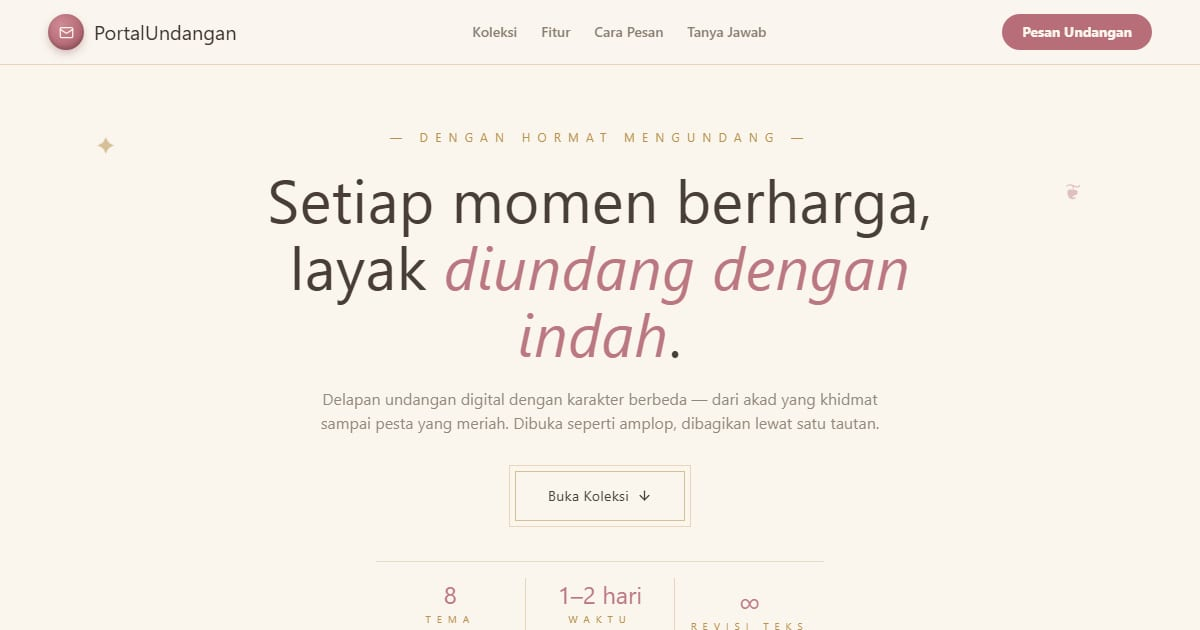
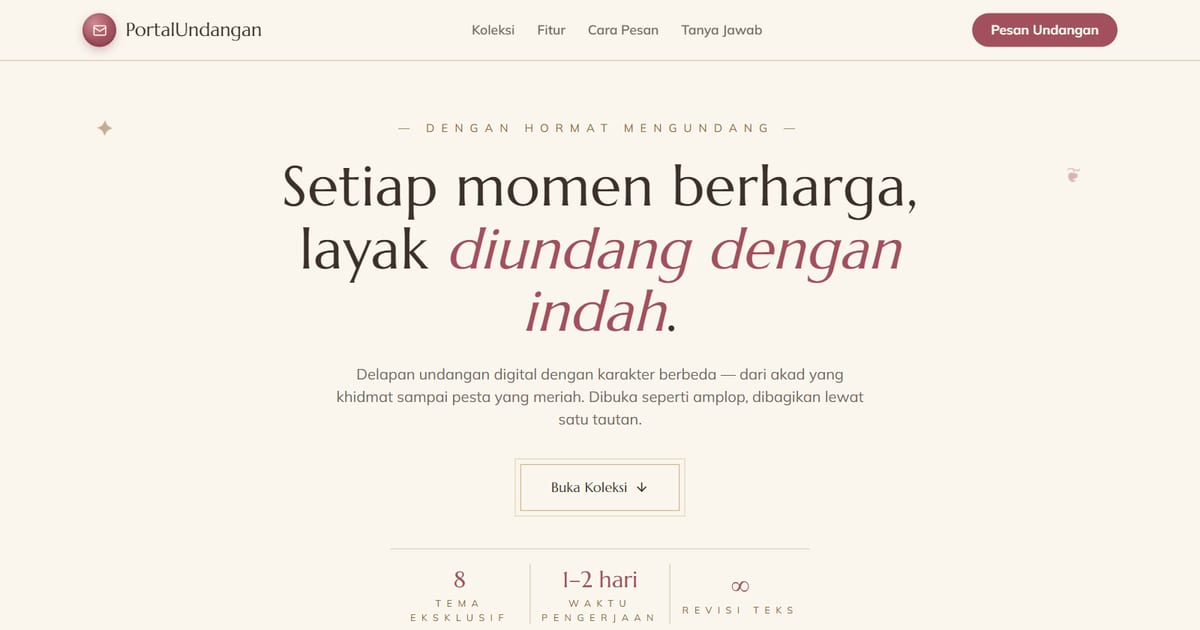
Portal undangan: font judul benar, kontras, dan fitur /kirim
- Variabel font di <body> membuat @theme --font-display kosong sehingga
  judul jatuh ke Georgia -> variabel dipindah ke <html> (kini Marcellus)
- Kontras: rose/gold/muted digelapkan (>= 4.5:1); kelas .ornamen yang
  unlayered mengalahkan warna utilitas -> masuk @layer components; label
  footer & hak cipta di latar gelap dibuat terbaca
- Baris statistik meluap 6 px di layar 360 px -> min-w-0 & tracking lebih
  rapat di mobile
- Fitur & langkah "Sebarkan" menyebut halaman /kirim (tautan bernama per
  tamu + pesan WhatsApp) yang kini ada di tiap tema; FAQ RSVP diluruskan
  (wisuda tidak punya RSVP; contoh berjalan dalam mode demo)
- Deskripsi Acara Kantor mengikuti situs konferensi barunya
- Pratinjau u1-u8 PNG -> WebP dari sampul terbaru (20-100 KB); og.jpg baru

diff --git a/app/page.js b/app/page.js
@@ -8,11 +8,11 @@ import { templates } from './components/templates-data';
 const WA = 'https://wa.me/6281339908765?text=Halo%2C%20saya%20ingin%20memesan%20undangan%20digital%20di%20PortalUndangan';
 
 const FITUR = [
-  { icon: MailOpen, title: 'Amplop Pembuka', desc: 'Nama tamu tersapa lebih dulu — undangan terbuka seperti amplop sungguhan.' },
+  { icon: MailOpen, title: 'Amplop Pembuka', desc: 'Nama tamu tersapa lebih dulu. Tiap tamu mendapat tautan bernama sendiri, dibuat lewat halaman /kirim.' },
   { icon: Timer, title: 'Hitung Mundur', desc: 'Countdown menuju hari-H yang membuat tamu ikut menanti.' },
   { icon: Images, title: 'Galeri Momen', desc: 'Foto-foto terbaik kalian tersusun dalam galeri yang elegan.' },
   { icon: MapPin, title: 'Peta Lokasi', desc: 'Google Maps tertanam — tamu tinggal ketuk untuk berangkat.' },
-  { icon: Music, title: 'Musik Latar', desc: 'Lagu pilihanmu mengiringi setiap gulir layar.' },
+  { icon: Music, title: 'Musik Latar', desc: 'Lagu pilihanmu mengiringi setiap gulir layar — dengan tombol jeda untuk tamu.' },
   { icon: Users, title: 'RSVP Kehadiran', desc: 'Tamu konfirmasi hadir dalam satu ketukan; kamu tinggal menghitung kursi.' },
   { icon: MessagesSquare, title: 'Ucapan & Doa', desc: 'Buku tamu digital yang menyimpan setiap doa terbaik.' },
   { icon: Gift, title: 'Amplop Digital', desc: 'Kado tanpa repot — nomor rekening & e-wallet tersaji sopan.' },
@@ -22,14 +22,14 @@ const LANGKAH = [
   { icon: Heart, no: 'I', title: 'Pilih Tema', desc: 'Telusuri delapan tema di koleksi, pilih yang paling terasa "kalian".' },
   { icon: PenLine, no: 'II', title: 'Kirim Cerita', desc: 'Nama, tanggal, lokasi, foto, dan kisahmu — kirim lewat WhatsApp.' },
   { icon: Send, no: 'III', title: 'Kami Rangkai', desc: 'Dalam 1–2 hari undangan jadi, lengkap dengan revisi hingga pas.' },
-  { icon: PartyPopper, no: 'IV', title: 'Sebarkan', desc: 'Satu tautan untuk semua tamu — bagikan lewat WA, IG, atau email.' },
+  { icon: PartyPopper, no: 'IV', title: 'Sebarkan', desc: 'Ketik daftar tamu di halaman /kirim — tiap nama dapat tautan dan pesan WhatsApp siap kirim.' },
 ];
 
 const TANYA = [
   { q: 'Berapa lama undangan selesai dibuat?', a: 'Umumnya 1–2 hari kerja setelah data lengkap kami terima. Untuk kebutuhan mendesak, sampaikan tanggal acaramu — kami usahakan prioritas.' },
   { q: 'Apakah nama, foto, dan cerita bisa diganti sesuai acara saya?', a: 'Tentu. Semua teks, foto, warna aksen, musik, dan detail acara disesuaikan sepenuhnya dengan momenmu. Tema hanyalah kanvas awalnya.' },
-  { q: 'Apakah tamu bisa konfirmasi kehadiran?', a: 'Bisa. Setiap undangan dilengkapi formulir RSVP dan buku ucapan digital, sehingga kamu tahu siapa saja yang hadir beserta doa-doa mereka.' },
-  { q: 'Bagaimana cara membagikan undangannya?', a: 'Kamu menerima satu tautan pribadi. Bagikan lewat WhatsApp, Instagram, atau email — tamu tinggal membuka, tanpa unduh aplikasi apa pun.' },
+  { q: 'Apakah tamu bisa konfirmasi kehadiran?', a: 'Bisa. Formulir RSVP (atau pendaftaran peserta untuk acara kantor) dan buku ucapan bisa dipasang di tema mana pun. Contoh di galeri ini berjalan dalam mode demo, jadi isian tidak disimpan.' },
+  { q: 'Bagaimana cara membagikan undangannya?', a: 'Setiap tema punya halaman /kirim: ketik daftar tamu, lalu tiap nama mendapat tautan yang menyapanya di sampul beserta pesan WhatsApp siap kirim. Tamu tinggal membuka, tanpa unduh aplikasi apa pun.' },
   { q: 'Apakah ada revisi jika ada yang keliru?', a: 'Ada. Revisi teks dan detail termasuk dalam paket sampai undanganmu benar-benar pas. Kami baru selesai ketika kamu tersenyum puas.' },
 ];
 
@@ -83,9 +83,9 @@ export default function PortalUndangan() {
               { v: '1–2 hari', l: 'Waktu Pengerjaan' },
               { v: '∞', l: 'Revisi Teks' },
             ].map((s) => (
-              <div key={s.l} className="flex-1 px-3 text-center">
+              <div key={s.l} className="min-w-0 flex-1 px-2 text-center sm:px-3">
                 <p className="font-display text-2xl text-roseu">{s.v}</p>
-                <p className="ornamen mt-0.5 text-[10px] uppercase">{s.l}</p>
+                <p className="ornamen mt-0.5 text-[10px] uppercase tracking-[0.25em] sm:tracking-[0.6em]">{s.l}</p>
               </div>
             ))}
           </div>
@@ -260,7 +260,7 @@ export default function PortalUndangan() {
             <p className="mt-2 text-sm leading-relaxed">Undangan digital untuk setiap momen — dibuka seperti amplop, dibagikan lewat satu tautan.</p>
           </div>
           <nav aria-label="Tautan footer" className="text-sm">
-            <p className="ornamen text-[10px] uppercase text-goldu/70">Jelajahi</p>
+            <p className="ornamen text-[10px] uppercase text-[#d6b77f]">Jelajahi</p>
             <ul className="mt-3 space-y-2">
               <li><a href="#koleksi" className="transition hover:text-creamu">Koleksi Tema</a></li>
               <li><a href="#fitur" className="transition hover:text-creamu">Fitur Undangan</a></li>
@@ -269,14 +269,14 @@ export default function PortalUndangan() {
             </ul>
           </nav>
           <div className="text-sm">
-            <p className="ornamen text-[10px] uppercase text-goldu/70">Hubungi</p>
+            <p className="ornamen text-[10px] uppercase text-[#d6b77f]">Hubungi</p>
             <ul className="mt-3 space-y-2">
               <li><a href={WA} target="_blank" rel="noopener noreferrer" className="transition hover:text-creamu">WhatsApp +62 813 3990 8765</a></li>
               <li><a href="https://pintuweb.com" target="_blank" rel="noopener noreferrer" className="transition hover:text-creamu">pintuweb.com</a></li>
             </ul>
           </div>
         </div>
-        <p className="mt-10 border-t border-creamu/10 pt-5 text-center text-xs text-creamu/40">
+        <p className="mt-10 border-t border-creamu/10 pt-5 text-center text-xs text-creamu/70">
           © {new Date().getFullYear()} PortalUndangan · bagian dari PintuWeb — merangkai undangan sejak dalam pikiran.
         </p>
       </footer>

diff --git a/app/components/templates-data.js b/app/components/templates-data.js
@@ -1,10 +1,10 @@
 export const templates = [
-  { name: 'Wedding', momen: 'Pernikahan', description: 'Romantis klasik dengan amplop pembuka, hitung mundur akad, galeri, dan RSVP.', image: '/images/u1.png', url: 'https://undangan-wedding-eight.vercel.app', kategori: 'Cinta' },
-  { name: 'Engagement', momen: 'Lamaran', description: 'Elegan dan intim untuk kabar bahagia sebelum hari besar tiba.', image: '/images/u2.png', url: 'https://undangan-engagement.vercel.app', kategori: 'Cinta' },
-  { name: 'Khitanan', momen: 'Khitanan', description: 'Ceria dan penuh doa untuk momen sang jagoan kecil.', image: '/images/u3.png', url: 'https://undangan-khitanan-theta.vercel.app', kategori: 'Keluarga' },
-  { name: 'Aqiqah', momen: 'Aqiqah', description: 'Lembut dan syahdu menyambut kelahiran buah hati.', image: '/images/u4.png', url: 'https://undangan-aqiqah-puce.vercel.app', kategori: 'Keluarga' },
-  { name: 'Birthday', momen: 'Ulang Tahun', description: 'Confetti pop! Undangan pesta dengan party pass dan keseruan warna.', image: '/images/u5.png', url: 'https://undangan-birthday.vercel.app', kategori: 'Perayaan' },
-  { name: 'Wisuda', momen: 'Wisuda', description: 'Formal akademik dengan sentuhan emas untuk hari kelulusan.', image: '/images/u6.png', url: 'https://undangan-wisuda-ten.vercel.app', kategori: 'Perayaan' },
-  { name: 'Reuni', momen: 'Reuni', description: 'Scrapbook nostalgia — polaroid, stempel, dan kenangan sekolah.', image: '/images/u7.png', url: 'https://undangan-reuni-livid.vercel.app', kategori: 'Perayaan' },
-  { name: 'Corporate', momen: 'Acara Kantor', description: 'Profesional dan rapi untuk gathering, seminar, dan launching.', image: '/images/u8.png', url: 'https://undangan-corporate-delta.vercel.app', kategori: 'Formal' },
+  { name: 'Wedding', momen: 'Pernikahan', description: 'Romantis klasik dengan amplop pembuka, hitung mundur akad, galeri, dan RSVP.', image: '/images/u1.webp', url: 'https://undangan-wedding-eight.vercel.app', kategori: 'Cinta' },
+  { name: 'Engagement', momen: 'Lamaran', description: 'Elegan dan intim untuk kabar bahagia sebelum hari besar tiba.', image: '/images/u2.webp', url: 'https://undangan-engagement.vercel.app', kategori: 'Cinta' },
+  { name: 'Khitanan', momen: 'Khitanan', description: 'Ceria dan penuh doa untuk momen sang jagoan kecil.', image: '/images/u3.webp', url: 'https://undangan-khitanan-theta.vercel.app', kategori: 'Keluarga' },
+  { name: 'Aqiqah', momen: 'Aqiqah', description: 'Lembut dan syahdu menyambut kelahiran buah hati.', image: '/images/u4.webp', url: 'https://undangan-aqiqah-puce.vercel.app', kategori: 'Keluarga' },
+  { name: 'Birthday', momen: 'Ulang Tahun', description: 'Confetti pop! Undangan pesta dengan party pass dan keseruan warna.', image: '/images/u5.webp', url: 'https://undangan-birthday.vercel.app', kategori: 'Perayaan' },
+  { name: 'Wisuda', momen: 'Wisuda', description: 'Formal akademik dengan sentuhan emas untuk hari kelulusan.', image: '/images/u6.webp', url: 'https://undangan-wisuda-ten.vercel.app', kategori: 'Perayaan' },
+  { name: 'Reuni', momen: 'Reuni', description: 'Scrapbook nostalgia — polaroid, stempel, dan kenangan sekolah.', image: '/images/u7.webp', url: 'https://undangan-reuni-livid.vercel.app', kategori: 'Perayaan' },
+  { name: 'Corporate', momen: 'Acara Kantor', description: 'Situs konferensi dua hari: agenda bertab, pembicara, slot sponsor, dan pendaftaran peserta.', image: '/images/u8.webp', url: 'https://undangan-corporate-delta.vercel.app', kategori: 'Formal' },
 ];

diff --git a/app/globals.css b/app/globals.css
@@ -6,9 +6,9 @@
 
   --color-creamu: #faf6ee;
   --color-inku: #3b3129;
-  --color-roseu: #b76e79;
-  --color-goldu: #b3893f;
-  --color-mutedu: #8b7f72;
+  --color-roseu: #a2505d;
+  --color-goldu: #8a6930;
+  --color-mutedu: #72685d;
 }
 
 html { scroll-behavior: smooth; }
@@ -32,7 +32,9 @@ h1, h2, h3 { font-family: var(--font-display); font-weight: 400; letter-spacing:
 }
 
 /* Kelopak ornamen */
-.ornamen { color: var(--color-goldu); letter-spacing: 0.6em; }
+@layer components {
+  .ornamen { color: var(--color-goldu); letter-spacing: 0.6em; }
+}
 
 @keyframes rise { from { opacity: 0; transform: translateY(14px); } to { opacity: 1; transform: none; } }
 .rise { animation: rise 0.8s ease-out both; }

diff --git a/app/layout.js b/app/layout.js
@@ -40,8 +40,8 @@ export const metadata = {
 
 export default function RootLayout({ children }) {
   return (
-    <html lang="id">
-      <body className={`${marcellus.variable} ${mulish.variable} antialiased`}>
+    <html lang="id" className={`${marcellus.variable} ${mulish.variable}`}>
+      <body className="antialiased">
         <main>{children}</main>
       <script type="application/ld+json" dangerouslySetInnerHTML={{ __html: JSON.stringify(__jsonld) }} />
         </body>
